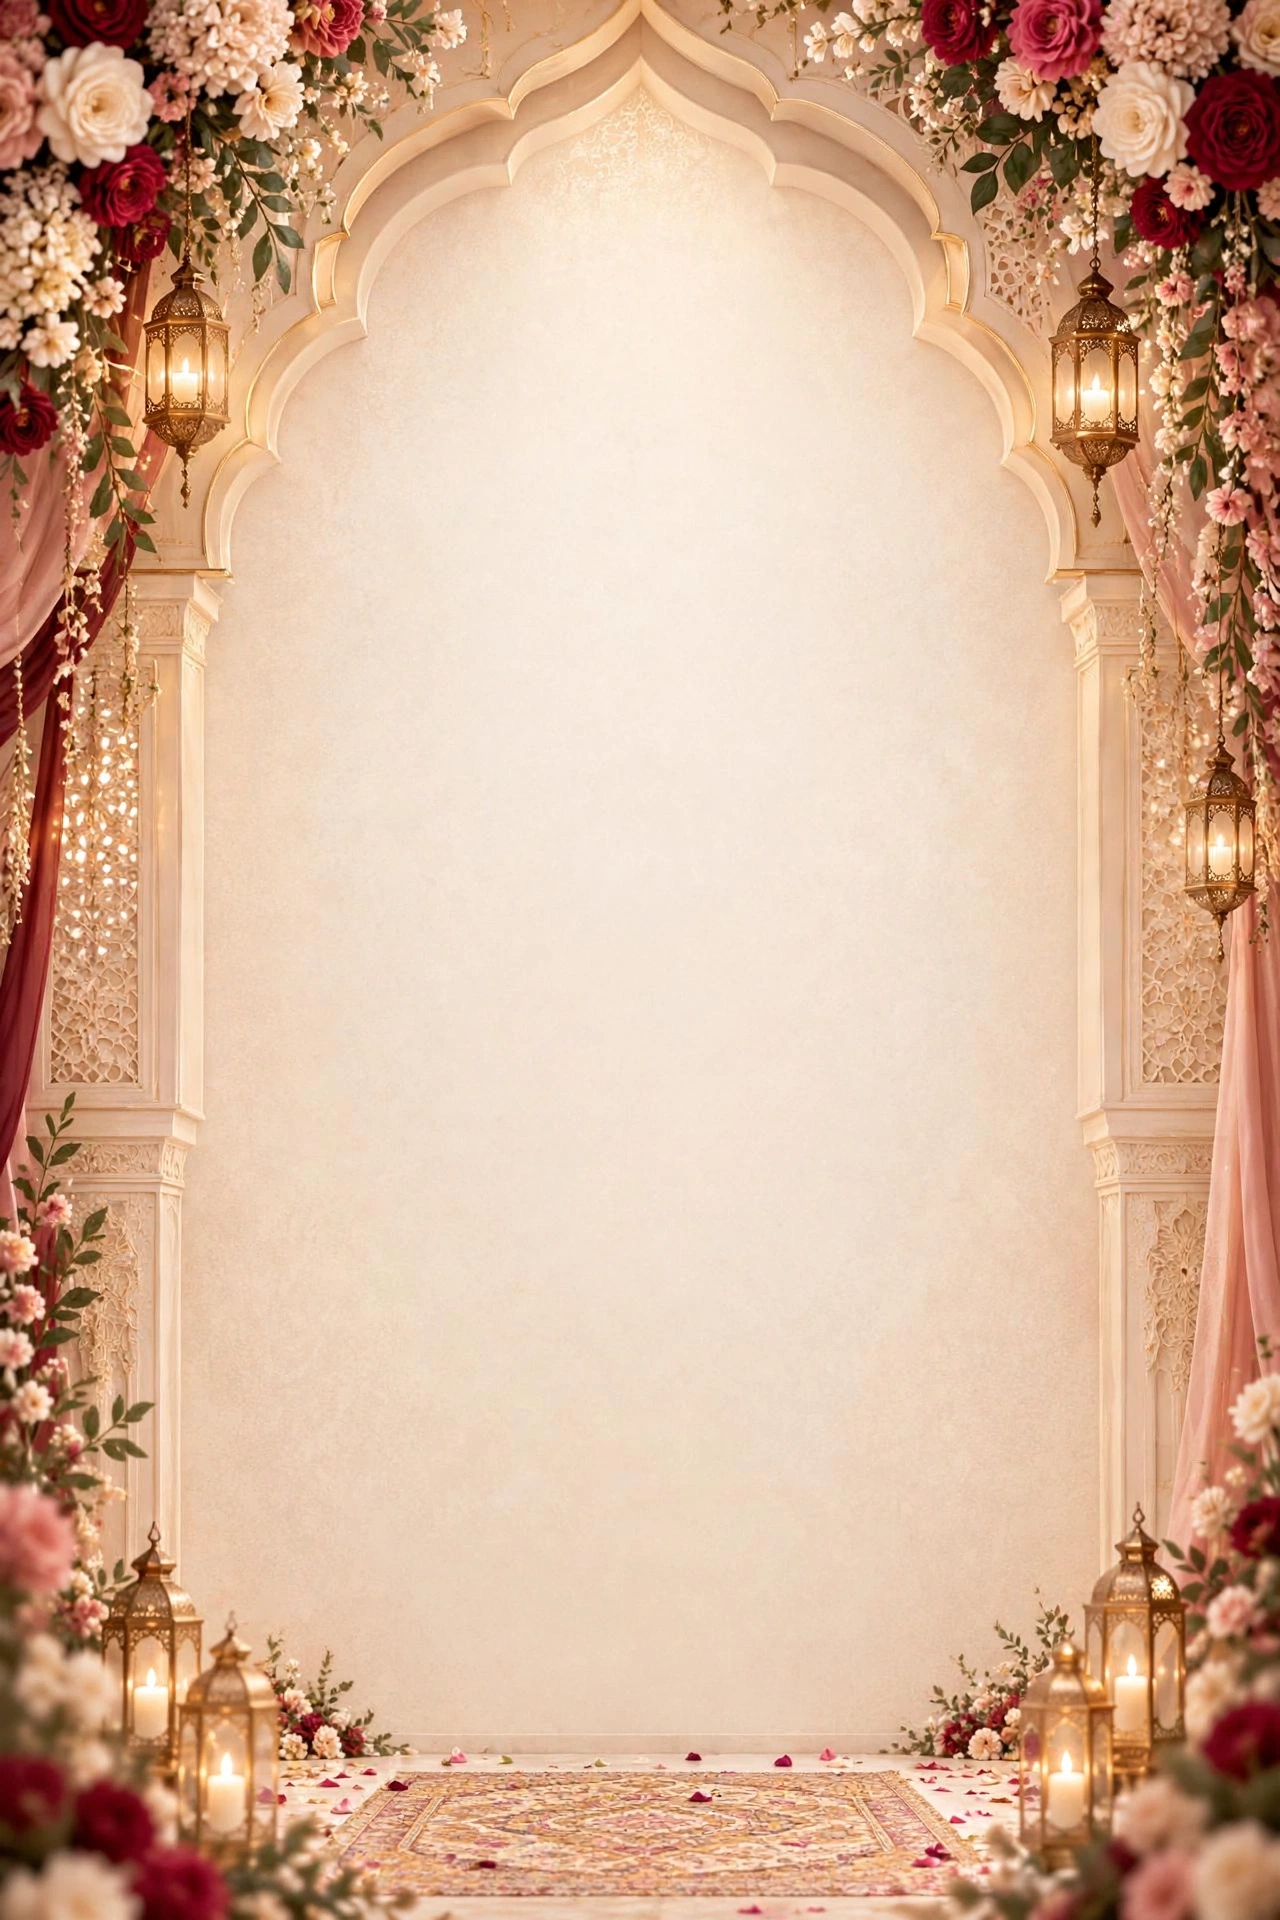
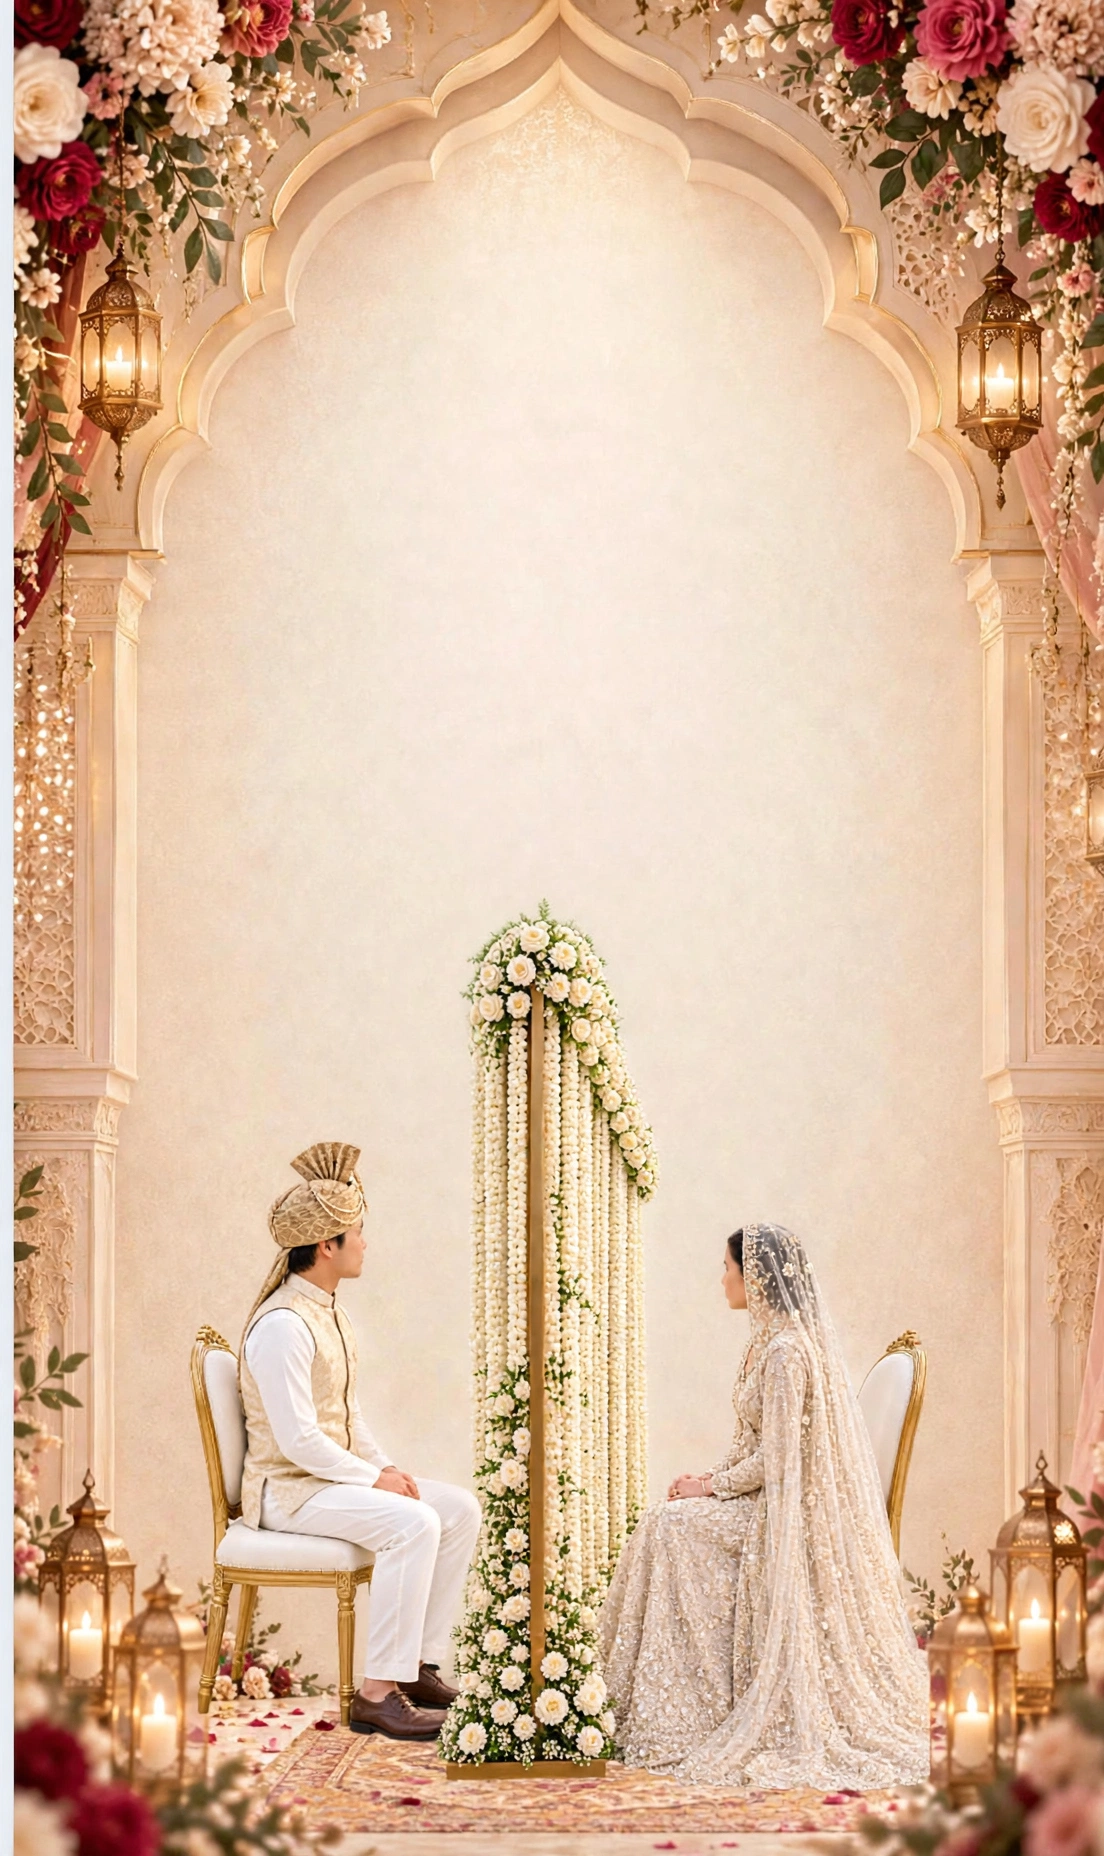
fix the image

diff --git a/src/styles.css b/src/styles.css
@@ -151,16 +151,9 @@ a { color: inherit; }
 .couple-note { max-width:340px; margin:0 auto; font-size:var(--font-size-body); }
 
 .event-card { padding: 8px 16px 65px; max-width:500px; margin:auto; text-align:center; }
-.nikah-artwork { position:absolute; z-index:0; top:50%; left:50%; width:min(32vw, 520px); height:auto; max-height:72dvh; max-width:32vw; object-fit:contain; object-position:center; opacity:0; pointer-events:none; transform:translate(-50%, -50%) scale(1); }
-.nikah-artwork.is-animating { opacity:.64; animation:nikah-image-arrive 4.2s ease-in-out forwards; }
+.nikah-artwork { position:absolute; z-index:0; bottom:0; left:50%; width:min(32vw, 520px); height:auto; max-height:72dvh; max-width:32vw; object-fit:contain; object-position:center bottom; pointer-events:none; transform:translateX(-50%); }
 .event-baraat .event-card { position:relative; z-index:1; }
 .event-card--baraat { opacity:0; animation:baraat-copy-appear .8s ease 4.2s forwards; }
-@keyframes nikah-image-arrive {
-  0% { top:50%; left:50%; opacity:.64; filter:blur(18px) brightness(.72); transform:translate(-50%, -50%) scale(1); }
-  23.8% { top:50%; left:50%; opacity:.72; filter:blur(0) brightness(1); transform:translate(-50%, -50%) scale(1); }
-  71.4% { top:50%; left:50%; opacity:.72; filter:blur(0) brightness(1); transform:translate(-50%, -50%) scale(1); }
-  100% { top:72%; left:72%; opacity:.68; filter:blur(0) brightness(1); transform:translate(-50%, -50%) scale(.72); }
-}
 @keyframes baraat-copy-appear {
   to { opacity:1; transform:translateY(0); }
   from { opacity:0; transform:translateY(12px); }
@@ -264,14 +257,7 @@ a { color: inherit; }
 }
 
 @media (max-width: 699px) {
-  .nikah-artwork { top:33%; width:min(68vw, 250px); height:auto; max-height:58dvh; max-width:78vw; object-position:center; }
-  .nikah-artwork.is-animating { animation-name:nikah-image-arrive-mobile; }
-  @keyframes nikah-image-arrive-mobile {
-    0% { top:50%; left:50%; opacity:.64; filter:blur(18px) brightness(.72); transform:translate(-50%, -50%) scale(1); }
-    23.8% { top:50%; left:50%; opacity:.72; filter:blur(0) brightness(1); transform:translate(-50%, -50%) scale(1); }
-    71.4% { top:50%; left:50%; opacity:.72; filter:blur(0) brightness(1); transform:translate(-50%, -50%) scale(1); }
-    100% { top:80%; left:70%; opacity:.68; filter:blur(0) brightness(1); transform:translate(-50%, -50%) scale(.48); }
-  }
+  .nikah-artwork { width:min(68vw, 250px); max-height:58dvh; max-width:78vw; }
 }
 
 @media (max-height: 700px) {

diff --git a/src/data/animationSettings.js b/src/data/animationSettings.js
@@ -2,23 +2,23 @@ export const invitationMotionSettings = {
   pages: {
     blessings: {
       transitionSeconds: 2,
-      autoAdvanceSeconds: 8,
+      autoAdvanceSeconds: 1,
       introRevealSeconds: 4,
       openedRevealSeconds: 1
     },
     ceremony: {
       transitionSeconds: 2,
-      autoAdvanceSeconds: 15
+      autoAdvanceSeconds: 1
     },
     haldi: {
       transitionSeconds: 1,
-      autoAdvanceSeconds: 8
+      autoAdvanceSeconds: 1
     },
     baraat: {
       transitionSeconds: 1,
-      autoAdvanceSeconds: 7,
-      detailsRevealSeconds: 10,
-      detailsRevealDelaySeconds: 4.2
+      autoAdvanceSeconds: 107,
+      detailsRevealSeconds: 107,
+      detailsRevealDelaySeconds: 4
     },
     closing: {
       transitionSeconds: 1,

diff --git a/src/components/sections/EventSection.jsx b/src/components/sections/EventSection.jsx
@@ -16,13 +16,6 @@ export default function EventSection({ event }) {
 
   return (
     <section className={`event-section event-${event.id} section-pad`} id={event.id}>
-      {event.id === 'baraat' && (
-        <img
-          className={`nikah-artwork${playNikahAnimation ? ' is-animating' : ''}`}
-          src="/assets/nikah.png"
-          alt="Bride and groom seated beside a floral wedding divider"
-        />
-      )}
       <div className={`event-card${event.id === 'baraat' ? ' event-card--baraat' : ''}`}>
         <EventDetails event={event} />
       </div>
